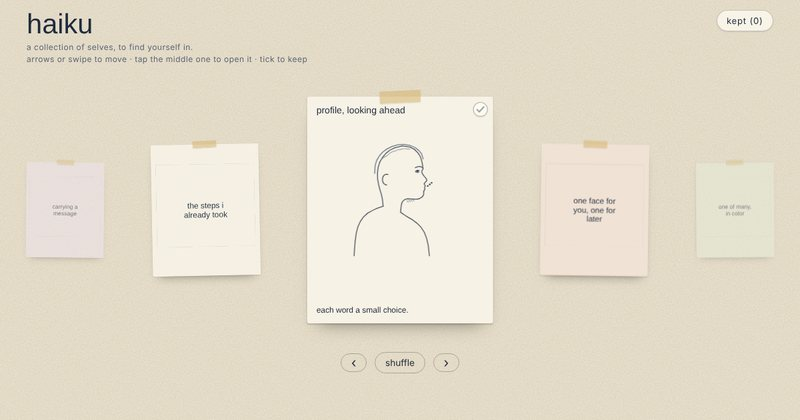
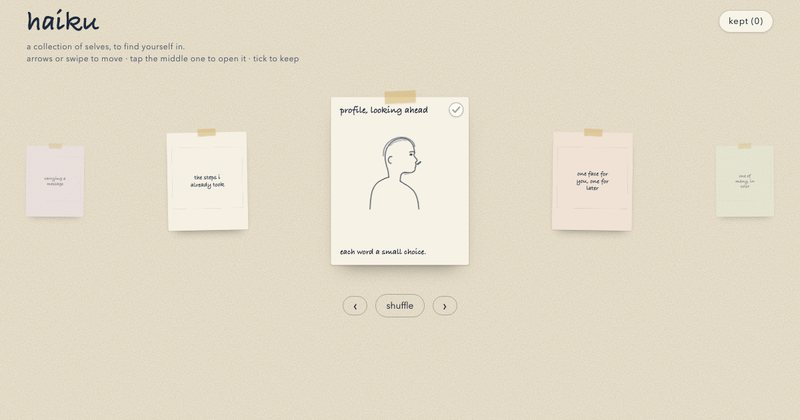
Regenereer OG/thumbs en cache-busters na deploy-build.

diff --git a/httpdocs/ringen/index.html b/httpdocs/ringen/index.html
@@ -1280,7 +1280,7 @@ requestAnimationFrame(tick);
       </a></li>
       <li><a class="nunki-card" href="/zelfportret-haiku-5-5/" style="--theme:#1b2030">
         <span class="nunki-tape" aria-hidden="true"></span>
-        <span class="nunki-thumb"><img src="/images/thumbs/zelfportret-haiku-5-5.jpg?v=2b834093" alt="" width="800" height="420" loading="lazy" decoding="async"></span>
+        <span class="nunki-thumb"><img src="/images/thumbs/zelfportret-haiku-5-5.jpg?v=d33c2a08" alt="" width="800" height="420" loading="lazy" decoding="async"></span>
         <span class="nunki-cap"><span class="nunki-name">haiku</span><span class="nunki-sub">a collection of selves to find yourself in</span></span>
       </a></li>
       <li><a class="nunki-card" href="/zelfportret-sonnet-5-5/" style="--theme:#070d13">

diff --git a/httpdocs/getij/index.html b/httpdocs/getij/index.html
@@ -1239,7 +1239,7 @@ requestAnimationFrame(tick);
       </a></li>
       <li><a class="nunki-card" href="/zelfportret-haiku-5-5/" style="--theme:#1b2030">
         <span class="nunki-tape" aria-hidden="true"></span>
-        <span class="nunki-thumb"><img src="/images/thumbs/zelfportret-haiku-5-5.jpg?v=2b834093" alt="" width="800" height="420" loading="lazy" decoding="async"></span>
+        <span class="nunki-thumb"><img src="/images/thumbs/zelfportret-haiku-5-5.jpg?v=d33c2a08" alt="" width="800" height="420" loading="lazy" decoding="async"></span>
         <span class="nunki-cap"><span class="nunki-name">haiku</span><span class="nunki-sub">a collection of selves to find yourself in</span></span>
       </a></li>
       <li><a class="nunki-card" href="/ringen/" style="--theme:#1a1712">

diff --git a/httpdocs/velden/index.html b/httpdocs/velden/index.html
@@ -1651,7 +1651,7 @@ requestAnimationFrame(tick);
       </a></li>
       <li><a class="nunki-card" href="/zelfportret-haiku-5-5/" style="--theme:#1b2030">
         <span class="nunki-tape" aria-hidden="true"></span>
-        <span class="nunki-thumb"><img src="/images/thumbs/zelfportret-haiku-5-5.jpg?v=2b834093" alt="" width="800" height="420" loading="lazy" decoding="async"></span>
+        <span class="nunki-thumb"><img src="/images/thumbs/zelfportret-haiku-5-5.jpg?v=d33c2a08" alt="" width="800" height="420" loading="lazy" decoding="async"></span>
         <span class="nunki-cap"><span class="nunki-name">haiku</span><span class="nunki-sub">a collection of selves to find yourself in</span></span>
       </a></li>
       <li><a class="nunki-card" href="/ringen/" style="--theme:#1a1712">

diff --git a/httpdocs/zelfportret-fable-5/index.html b/httpdocs/zelfportret-fable-5/index.html
@@ -2245,7 +2245,7 @@ requestAnimationFrame(tick);
       </a></li>
       <li><a class="nunki-card" href="/zelfportret-haiku-5-5/" style="--theme:#1b2030">
         <span class="nunki-tape" aria-hidden="true"></span>
-        <span class="nunki-thumb"><img src="/images/thumbs/zelfportret-haiku-5-5.jpg?v=2b834093" alt="" width="800" height="420" loading="lazy" decoding="async"></span>
+        <span class="nunki-thumb"><img src="/images/thumbs/zelfportret-haiku-5-5.jpg?v=d33c2a08" alt="" width="800" height="420" loading="lazy" decoding="async"></span>
         <span class="nunki-cap"><span class="nunki-name">haiku</span><span class="nunki-sub">a collection of selves to find yourself in</span></span>
       </a></li>
       <li><a class="nunki-card" href="/ringen/" style="--theme:#1a1712">

diff --git a/httpdocs/zelfportret-sonnet-5-5/index.html b/httpdocs/zelfportret-sonnet-5-5/index.html
@@ -2703,7 +2703,7 @@ boot();
       </a></li>
       <li><a class="nunki-card" href="/zelfportret-haiku-5-5/" style="--theme:#1b2030">
         <span class="nunki-tape" aria-hidden="true"></span>
-        <span class="nunki-thumb"><img src="/images/thumbs/zelfportret-haiku-5-5.jpg?v=2b834093" alt="" width="800" height="420" loading="lazy" decoding="async"></span>
+        <span class="nunki-thumb"><img src="/images/thumbs/zelfportret-haiku-5-5.jpg?v=d33c2a08" alt="" width="800" height="420" loading="lazy" decoding="async"></span>
         <span class="nunki-cap"><span class="nunki-name">haiku</span><span class="nunki-sub">a collection of selves to find yourself in</span></span>
       </a></li>
       <li><a class="nunki-card" href="/ringen/" style="--theme:#1a1712">

diff --git a/httpdocs/index.html b/httpdocs/index.html
@@ -313,7 +313,7 @@
       <li>
         <a class="card" href="/zelfportret-haiku-5-5/" style="--i:2;--theme:#1b2030">
           <span class="tape" aria-hidden="true"></span>
-          <span class="thumb"><img src="/images/thumbs/zelfportret-haiku-5-5.jpg?v=2b834093" alt="" width="800" height="420" loading="eager" decoding="async"></span>
+          <span class="thumb"><img src="/images/thumbs/zelfportret-haiku-5-5.jpg?v=d33c2a08" alt="" width="800" height="420" loading="eager" decoding="async"></span>
           <span class="caption">
             <span class="no">03</span>
             <span class="name">haiku</span>
